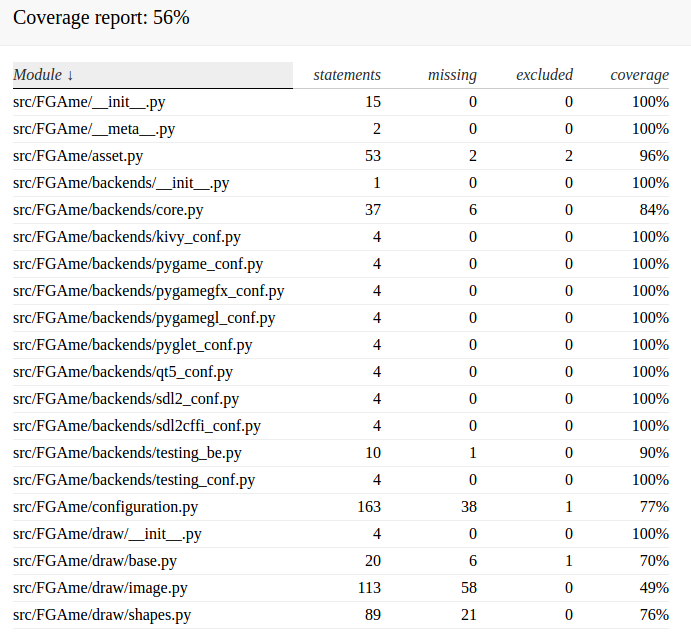
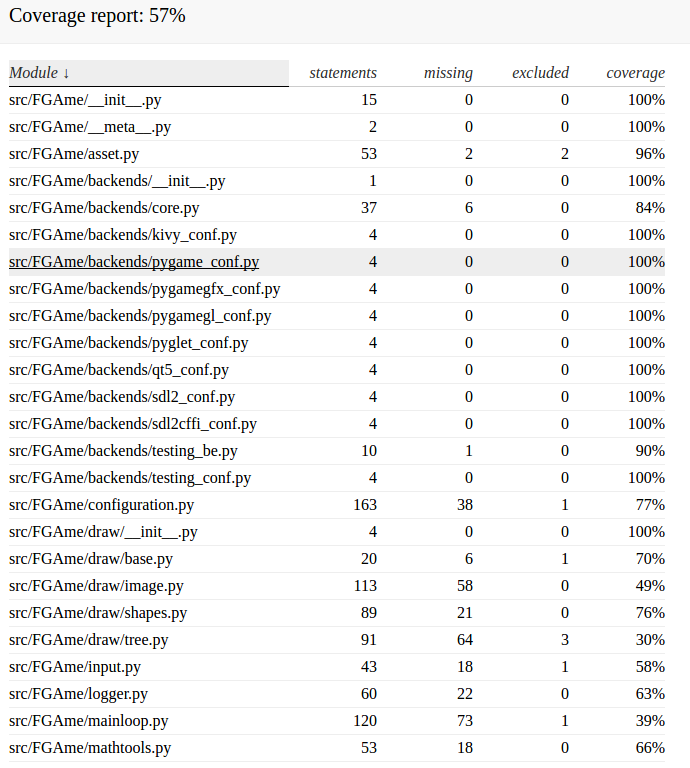
corrigindo erros de português

diff --git a/editaveis/referencial_teorico.tex b/editaveis/referencial_teorico.tex
@@ -1,6 +1,6 @@
 \chapter{Referencial Teórico}
 
-	Como técnica de levantamenteo do referencial teórico foi utilizada a técnica de revisão de literatura. Segundo \citeonline{revisao_de_literatura} uma revisão de literatura consiste em no processo de investigação, com o levantamento de um problema, tema, e a realização do levantamento bibliográfico  do assunto tratado. Assim em relação ao tema apresentado neste trabalho, a revisão literaria consistitiu no levantamento de palavras-chave, que tinham a finalidade de  sanar as lacunas com relação a falta de testes unitários, bem como a utilização de verificação e validação no desenvolvimento dos testes..
+	Como técnica de levantamento do referencial teórico foi utilizada a técnica de revisão de literatura. Segundo \citeonline{revisao_de_literatura} uma revisão de literatura consiste em no processo de investigação, com o levantamento de um problema, tema, e a realização do levantamento bibliográfico  do assunto tratado. Assim em relação ao tema apresentado neste trabalho, a revisão literária consistiu no levantamento de palavras-chave, que tinham a finalidade de  sanar as lacunas com relação a falta de testes unitários, bem como a utilização de verificação e validação no desenvolvimento dos testes..
 
     logo após ser feita uma síntese dos textos estudados fica mais simples de se obter um entendimento prévio a respeito da área estudada  \apudonline{livro_sistematizacao_conhecimento}{revisao_de_literatura}.
     Para este trabalho o propósito da revisão será ganhar perspectivas metodológicas e desta forma contemplará os conceitos de:
@@ -23,19 +23,19 @@
 
 A verificação e validação é considerada amplamente uma das disciplinas mais importantes da engenharia de Software, tendo por exemplo a sua obrigatoriedade nos mais importantes modelos de maturidade encontrados no mercado com o \textit{CMMI} e o \textit{MPS-BR}, sendo assim conceitos fundamentais na desenvolvimento de \textit{Software}.
 
-Elas quando seguidas, possibilitam que os diversos produtos gerados ao decorer do projeto cumprão aquilo a que foram destinado a cumprir, com enfoque prinsipalmente em  aspectos de qualidade otimização de produtos.
+Elas quando seguidas, possibilitam que os diversos produtos gerados ao decorrer do projeto cumprirão aquilo a que foram destinado a cumprir, com enfoque principalmente em  aspectos de qualidade otimização de produtos.
 .\cite{gregor}
 
 E como o retrabalho tende a crescer ao longo do desenvolvimento do projeto e como a \textit{FGAme} é relativamente nova e pretende ser mantida pelo professor Dr. Fábio Macedo, o aumento da cobertura de testes e o aprimoramento dos testes que já estavam implementados vem para facilitar a contribuição e a estabilidade da \textit{engine}.
 
 
 \subsection{Teste de \textit{sofware}}
-	De acordo com \cite{IEEE}, teste é descrito como a atividade na qual, execulta-se sobre condições especificas, com resultados planejados, produtos, componentes ou sistemas. Deste modo, nesta execução controlada tem-se o intuito de validar ou verificar os resultados.
+	De acordo com \cite{IEEE}, teste é descrito como a atividade na qual, executa-se sobre condições especificas, com resultados planejados, produtos, componentes ou sistemas. Deste modo, nesta execução controlada tem-se o intuito de validar ou verificar os resultados.
 
 
-Segundo \cite{artigo_intro_teste}, o teste de software é uma investigação conduzida para confirmar se o produto atingiu ou não as especificações no qual o produto foi definido. O teste de software também pode fornece uma visão objetiva e independente do software para o negócio, nisto tem-se uma melhor compreendensão dos riscos na implementação. 
+Segundo \cite{artigo_intro_teste}, o teste de software é uma investigação conduzida para confirmar se o produto atingiu ou não as especificações no qual o produto foi definido. O teste de software também pode fornece uma visão objetiva e independente do software para o negócio, nisto tem-se uma melhor compreensão dos riscos na implementação. 
 
-Novamente \cite{artigo_intro_teste} descreve que, as técnicas de teste incluem, mas não estão limitados ao processo de execução de um programa, ou com a intenção de encontrar erros de software. Teste de software é qualquer atividade destinada a avaliar um atributo ou capacidade de um programa ou sistema e Determinando que ele atende aos resultados exigidos. Porém \cite{artigo_intro_teste} salienta que um bom teste é aquele que tem uma maior probalilidade de encontrar erros.
+Novamente \cite{artigo_intro_teste} descreve que, as técnicas de teste incluem, mas não estão limitados ao processo de execução de um programa, ou com a intenção de encontrar erros de software. Teste de software é qualquer atividade destinada a avaliar um atributo ou capacidade de um programa ou sistema e Determinando que ele atende aos resultados exigidos. Porém \cite{artigo_intro_teste} salienta que um bom teste é aquele que tem uma maior probabilidade de encontrar erros.
 
 Embora crucial para a qualidade do software, o teste de software continua a ser uma arte, devido à limitada compreensão dos princípios de Programas. 
  O objetivo do teste pode ser a qualidade de garantia, verificação e validação, ou estimativa de confiabilidade. 
@@ -47,7 +47,7 @@ Teste de Software é um elemento crítico para a qualidade do produto, pois repr
 
          Teste de Unidade também conhecido como testes unitários. Tem por objetivo explorar a menor unidade do projeto, procurando provocar falhas ocasionadas por defeitos de lógica e de implementação em cada módulo, separadamente. O universo alvo desse tipo de teste são os métodos dos objetos ou mesmo pequenos trechos de código.\cite{artigo_intro_teste}.
 
-Segundo \cite{sw_test_tech} é realizado durante a fase de desenvolvimento normalmente o testador é o proprio desenvolvedor, que testa as unidades com menor granularidade no software.
+Segundo \cite{sw_test_tech} é realizado durante a fase de desenvolvimento normalmente o testador é o próprio desenvolvedor, que testa as unidades com menor granularidade no software.
         
         
 \subsection{Testes de Integração}
@@ -57,17 +57,17 @@ Teste de Integração: visa provocar falhas associadas às interfaces entre os m
 
 \subsection{Qualidade de Testes}
 
-Este é um tema que sempre gereou dscução no meio da computação, com inumeros estudos voltados para responder as perguntas como as seguintes:
+Este é um tema que sempre gerou discutição no meio da computação, com inúmeros estudos voltados para responder as perguntas como as seguintes:
 
 \begin{enumerate}
 \item Até quando eu vou testar?
 \item Meu software esta bem testado?.
-\item Meus testes combrem a maior quantidade de erros possivel?
+\item Meus testes cobrem a maior quantidade de erros possível?
 \end{enumerate}
 
-Porém como resalta \cite{e08}, Ao falarmos de teste de software, o modo como executa-se os testes são diferentes, uma vez que os softwares possuem diversas singularidades, devendo o testador se adaptar ao contexto.
+Porém como ressalta \cite{e08}, Ao falarmos de teste de software, o modo como executa-se os testes são diferentes, uma vez que os softwares possuem diversas singularidades, devendo o testador se adaptar ao contexto.
 
-Segundo \cite{e08} o teste pode ser mensurado em duas métricas, as quais possibilitam verificar a comfibialidade e identificam quantativamente valores que possibilitam a equipe um melhor acompanhamento da qualidade do \textit{software}, sendo elas:
+Segundo \cite{e08} o teste pode ser mensurado em duas métricas, as quais possibilitam verificar a confiabilidade e identificam quantitativamente valores que possibilitam a equipe um melhor acompanhamento da qualidade do \textit{software}, sendo elas:
 \begin{enumerate}
 \item Cobertura de código
 \item Casos de Teste implementados.

diff --git a/editaveis/introducao.tex b/editaveis/introducao.tex
@@ -1,7 +1,7 @@
 \chapter[Introdução]{Introdução}
 \textbf{FGAme} é um motor de jogo focado em física, ou pelo termo em inglês , \textit{game} \textit{engine}, que é um \textit{framework} no qual visa simplificar o desenvolvimento de jogos eletrônicos.
 
-O projeto foi desenvolvido pelo Professor Dr. Fábio Macêdo Mendes da Faculdade do Gama - UnB para ser utilizado na disciplina de Física para Jogos para o ensino de física aplicado a jogos. Porém como o principal desenvolvedor do motor não é da área de Engenharia de Software, isso foi um dos motivos para o projeto ser desenvolvido sem a devida atenção em Verificação e Validação.
+O projeto foi desenvolvido pelo Professor Dr. Fábio Macêdo Mendes da Faculdade do Gama - \textbf{UnB} para ser utilizado na disciplina de Física para Jogos para o ensino de física aplicado a jogos. Porém como o principal desenvolvedor do motor não é da área de Engenharia de Software, isso foi um dos motivos para o projeto ser desenvolvido sem a devida atenção em Verificação e Validação.
 
 Ao início do projeto a \textit{engine} apresentava em torno de 30\% de cobertura de testes unitários e com a \textit{build} da ferramenta de integração contínua Travis falhando. Também não foi feito nenhum tipo de análise para verificar a qualidade dos testes unitários implementados.
 

diff --git a/editaveis/resultados.tex b/editaveis/resultados.tex
@@ -1,6 +1,6 @@
 \chapter{Resultados}
 
-Apos a execução dos testes, obteve-se um resultado satisfatório,com a cobertura chegando em 56\% superando a marca estipulado no inicio do projeto.
+Apos a execução dos testes, obteve-se um resultado satisfatório,com a cobertura chegando em 57\% superando a marca estipulado no inicio do projeto.
 
 \begin{figure}[!htb]
 \centering
